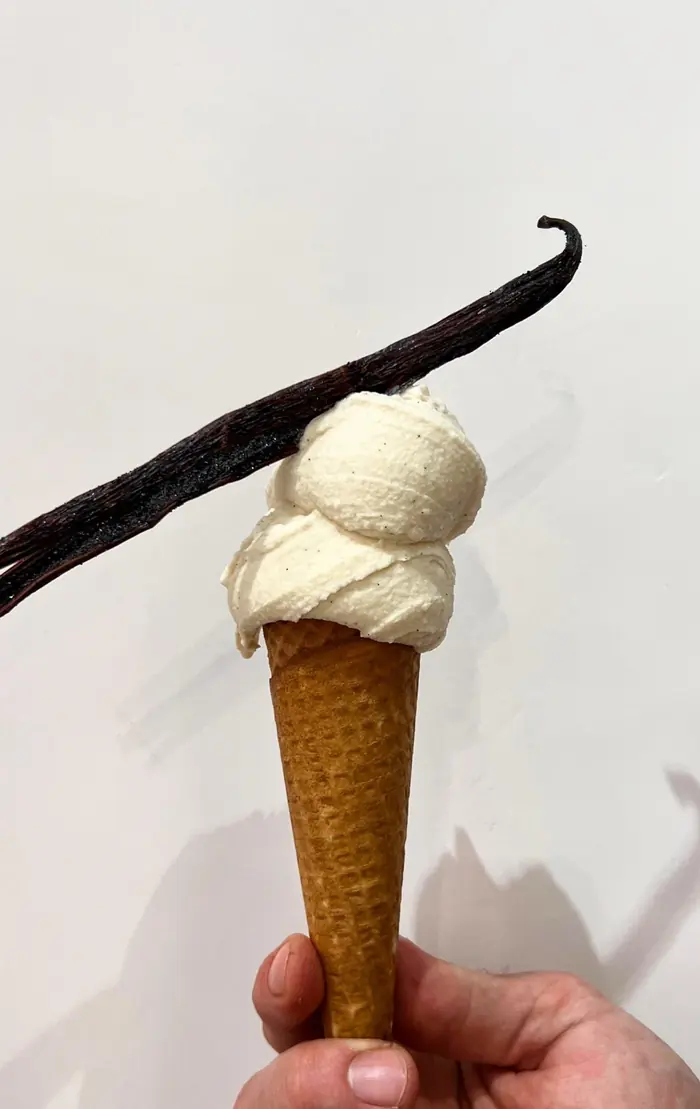
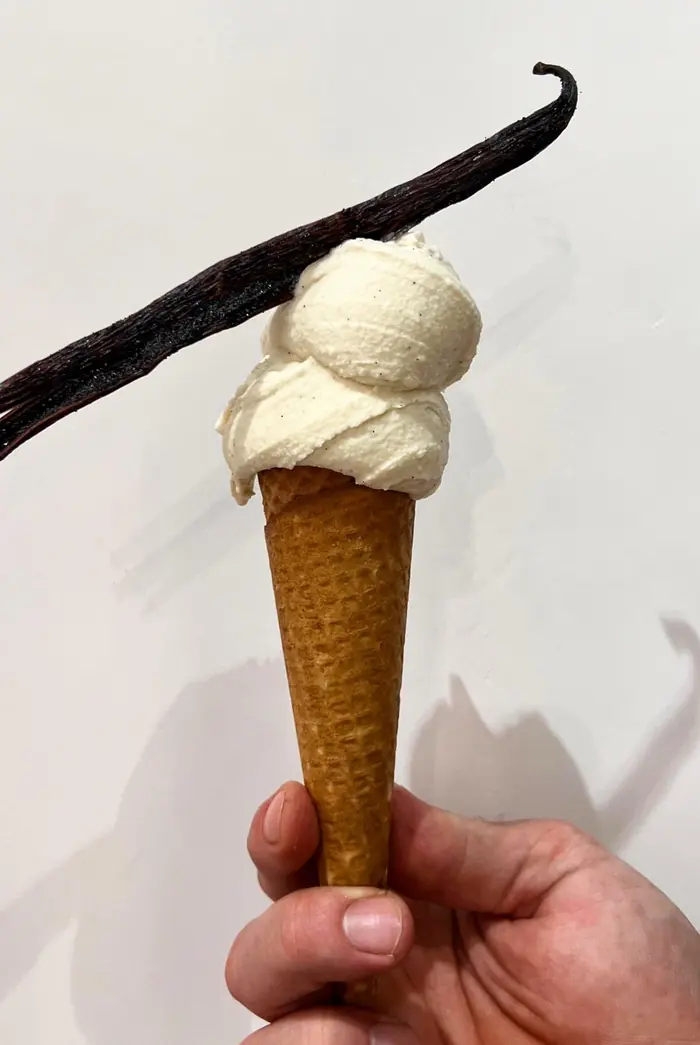
fix: show the whole cone, hand and vanilla pod in the hero; drop the Instagram section

diff --git a/sablegelato/index.html b/sablegelato/index.html
@@ -87,8 +87,9 @@ body.menu .sheet{clip-path:circle(150% at calc(100% - 38px) 62px); visibility:vi
 .dark .btn.ghost:hover{background:var(--cream); color:var(--ink)}
 
 .arch{position:relative; aspect-ratio:4/5.2; border-radius:999px 999px 6px 6px; overflow:hidden; background:var(--paper-2); isolation:isolate}
-.arch img{width:100%; height:118%; object-fit:cover; object-position:50% 35%; will-change:transform}
+.arch img{width:100%; height:118%; object-fit:cover; object-position:50% 50%; will-change:transform}
 .hero .arch img{animation:settle 2.4s cubic-bezier(.2,.7,.2,1) both}
+.hero-img img{height:100%; object-position:50% 0; transform-origin:50% 30%}
 @keyframes settle{from{transform:scale(1.12)} to{transform:scale(1)}}
 .hero-art{position:relative; max-width:min(500px, calc((100vh - 170px) * .76)); justify-self:end; width:100%}
 .seal{text-decoration:none; position:absolute; left:-46px; bottom:12%; width:132px; height:132px; border-radius:50%; background:var(--ink); color:var(--cream); display:grid; place-items:center; box-shadow:0 18px 40px rgba(0,0,0,.18)}
@@ -262,27 +263,6 @@ details.on-dark{border-color:rgba(245,240,230,.2); margin-top:8px}
 
 .visit .wrap.map-wrap{display:block; margin-top:clamp(48px,7vw,90px)}
 .map{display:block; width:100%; height:clamp(300px,40vw,440px); border:0; border-radius:6px}
-/* instagram */
-.insta{padding-top:0}
-.insta-head{display:grid; grid-template-columns:auto 1fr auto; align-items:center; gap:clamp(16px,3vw,32px); margin-bottom:clamp(28px,4vw,44px)}
-.insta h2{font-size:clamp(2.4rem,6.5vw,5rem); text-transform:none; letter-spacing:0}
-.insta h2 a{text-decoration:none; background:linear-gradient(90deg,#f58529,#dd2a7b 45%,#8134af 75%,#515bd4); -webkit-background-clip:text; background-clip:text; color:transparent}
-.ig-badge{width:clamp(64px,8vw,92px); aspect-ratio:1; border-radius:50%; padding:3px; background:conic-gradient(from 210deg,#feda75,#fa7e1e,#d62976,#962fbf,#4f5bd5,#feda75); display:block; animation:spin 9s linear infinite}
-.ig-badge span{width:100%; height:100%; border-radius:50%; background:var(--paper); display:grid; place-items:center; color:var(--ink); animation:spin 9s linear infinite reverse}
-.ig-badge svg{width:42%; height:42%}
-.ig-btn{border:0; color:#fff; background:linear-gradient(90deg,#f58529,#dd2a7b 50%,#8134af); gap:10px; background-size:200% 100%; transition:background-position .6s, transform .35s}
-.ig-btn:hover{background-position:100% 0}
-.ig-btn svg{width:16px; height:16px}
-.ig-grid{display:grid; grid-template-columns:repeat(4,1fr); gap:6px}
-.ig-tile{position:relative; display:block; aspect-ratio:1; overflow:hidden; border-radius:4px; background:var(--paper-2)}
-.ig-tile img{width:100%; height:100%; object-fit:cover; transition:transform 1s cubic-bezier(.2,.7,.2,1)}
-.ig-tile span{position:absolute; inset:0; display:grid; place-items:center; color:#fff; background:linear-gradient(135deg,rgba(245,133,41,.55),rgba(221,42,123,.55),rgba(129,52,175,.55)); opacity:0; transition:opacity .45s}
-.ig-tile span svg{width:34px; height:34px; transform:scale(.7); transition:transform .45s}
-.ig-tile:hover img{transform:scale(1.08)}
-.ig-tile:hover span{opacity:1}
-.ig-tile:hover span svg{transform:none}
-@media (max-width:760px){.insta-head{grid-template-columns:auto 1fr} .ig-btn{grid-column:1/-1; justify-content:center} .ig-grid{grid-template-columns:repeat(2,1fr)}}
-
 /* film */
 .film{padding:0 0 clamp(72px,10vw,140px)}
 .aff + .film{margin-top:-1px}
@@ -356,13 +336,13 @@ footer a{text-decoration:none; border-bottom:1px solid rgba(245,240,230,.3)}
   <div class="wrap">
     <a class="brand" href="#top" aria-label="Sablé Gelato, back to top"><img src="img/logo.png" alt="Sablé - Gelato &amp; Cioccolato - Laboratorio Artigianale" width="520" height="354"></a>
     <nav class="nav" aria-label="Sections">
-      <a href="#about">About me</a><a href="#gelato">My gelato</a><a href="#lab">Lab</a><a href="#chocolate">Chocolate</a><a href="#affogato">Affogato</a><a href="#awards">Awards</a><a href="#instagram">Instagram</a><a href="#visit">Visit</a>
+      <a href="#about">About me</a><a href="#gelato">My gelato</a><a href="#lab">Lab</a><a href="#chocolate">Chocolate</a><a href="#affogato">Affogato</a><a href="#awards">Awards</a><a href="#visit">Visit</a>
     </nav>
     <button class="burger" id="burger" aria-label="Open menu" aria-expanded="false"><span></span><span></span></button>
   </div>
 </header>
 <nav class="sheet" id="sheet" aria-label="Menu">
-  <a href="#about">About me</a><a href="#gelato">My gelato</a><a href="#lab">Lab</a><a href="#chocolate">Chocolate</a><a href="#affogato">Affogato</a><a href="#awards">Awards</a><a href="#instagram">Instagram</a><a href="#visit">Visit</a>
+  <a href="#about">About me</a><a href="#gelato">My gelato</a><a href="#lab">Lab</a><a href="#chocolate">Chocolate</a><a href="#affogato">Affogato</a><a href="#awards">Awards</a><a href="#visit">Visit</a>
   <span class="label muted">Via dei Mille 3a · Bologna</span>
 </nav>
 
@@ -385,7 +365,7 @@ footer a{text-decoration:none; border-bottom:1px solid rgba(245,240,230,.3)}
       </div>
     </div>
     <div class="hero-art" data-r style="--d:.2s">
-      <div class="arch"><img data-px="0.10" src="img/cone-700.webp" srcset="img/cone-700.webp 700w, img/cone-1400.webp 1270w" sizes="(max-width:899px) 90vw, 40vw" alt="A cone of Sablé gelato with a vanilla pod" width="700" height="1108" fetchpriority="high"></div>
+      <div class="arch hero-img"><img src="img/cone-700.webp" srcset="img/cone-700.webp 700w, img/cone-1400.webp 1270w" sizes="(max-width:899px) 90vw, 40vw" alt="A cone of Sablé gelato with a vanilla pod" width="700" height="1045" fetchpriority="high"></div>
       <a class="seal" href="https://www.gamberorosso.it/ristoranti/scheda-negozio/sable-gelato/" target="_blank" rel="noopener" aria-label="Due Coni Gambero Rosso 2023, 2024, 2025, 2026">
         <svg class="ring" viewBox="0 0 132 132" aria-hidden="true"><defs><path id="circ" d="M66,66 m-52,0 a52,52 0 1,1 104,0 a52,52 0 1,1 -104,0"/></defs><text><textPath href="#circ" textLength="324" lengthAdjust="spacingAndGlyphs">Gambero Rosso · 2023 · 2024 · 2025 · 2026 ·</textPath></text></svg>
         <div class="c">Due<br>Coni</div>
@@ -704,29 +684,6 @@ footer a{text-decoration:none; border-bottom:1px solid rgba(245,240,230,.3)}
         <li><a href="https://www.tastebologna.net/blog/best-gelato-bologna" target="_blank" rel="noopener"><img src="img/logos/taste-bologna.webp" alt="Taste Bologna" loading="lazy" width="277" height="227"></a></li>
         <li><a href="https://www.gazzettadelgusto.it/dove-mangiare/sable-bologna-gelato-alessandro-cesari/" target="_blank" rel="noopener"><img src="img/logos/gazzetta-del-gusto.webp" alt="La Gazzetta del Gusto" loading="lazy" width="600" height="288"></a></li>
       </ul>
-    </div>
-  </div>
-</section>
-
-<section class="sec insta" id="instagram">
-  <div class="wrap">
-    <div class="insta-head" data-r>
-      <a class="ig-badge" href="https://www.instagram.com/sable_gelato/" target="_blank" rel="noopener" aria-label="Sablé Gelato on Instagram"><span><svg viewBox="0 0 24 24" fill="none" stroke="currentColor" stroke-width="1.6" aria-hidden="true"><rect x="3" y="3" width="18" height="18" rx="5"/><circle cx="12" cy="12" r="4.2"/><circle cx="17.4" cy="6.6" r="1" fill="currentColor" stroke="none"/></svg></span></a>
-      <div>
-        <div class="label muted">Instagram</div>
-        <h2><a href="https://www.instagram.com/sable_gelato/" target="_blank" rel="noopener">@sable_gelato</a></h2>
-      </div>
-      <a class="btn ig-btn" href="https://www.instagram.com/sable_gelato/" target="_blank" rel="noopener"><svg viewBox="0 0 24 24" fill="none" stroke="currentColor" stroke-width="1.6" aria-hidden="true"><rect x="3" y="3" width="18" height="18" rx="5"/><circle cx="12" cy="12" r="4.2"/><circle cx="17.4" cy="6.6" r="1" fill="currentColor" stroke="none"/></svg>Follow on Instagram</a>
-    </div>
-    <div class="ig-grid" data-r>
-      <a class="ig-tile" href="https://www.instagram.com/sable_gelato/" target="_blank" rel="noopener" aria-label="Sablé gelato with flowers, on Instagram"><img src="img/f1-700.webp" alt="" loading="lazy" width="700" height="875"><span><svg viewBox="0 0 24 24" fill="none" stroke="currentColor" stroke-width="1.6" aria-hidden="true"><rect x="3" y="3" width="18" height="18" rx="5"/><circle cx="12" cy="12" r="4.2"/><circle cx="17.4" cy="6.6" r="1" fill="currentColor" stroke="none"/></svg></span></a>
-      <a class="ig-tile" href="https://www.instagram.com/sable_gelato/" target="_blank" rel="noopener" aria-label="In the laboratory, on Instagram"><img src="img/stir-700.webp" alt="" loading="lazy" width="700" height="875"><span><svg viewBox="0 0 24 24" fill="none" stroke="currentColor" stroke-width="1.6" aria-hidden="true"><rect x="3" y="3" width="18" height="18" rx="5"/><circle cx="12" cy="12" r="4.2"/><circle cx="17.4" cy="6.6" r="1" fill="currentColor" stroke="none"/></svg></span></a>
-      <a class="ig-tile" href="https://www.instagram.com/sable_gelato/" target="_blank" rel="noopener" aria-label="Gelato with pumpkin, on Instagram"><img src="img/f6-700.webp" alt="" loading="lazy" width="700" height="875"><span><svg viewBox="0 0 24 24" fill="none" stroke="currentColor" stroke-width="1.6" aria-hidden="true"><rect x="3" y="3" width="18" height="18" rx="5"/><circle cx="12" cy="12" r="4.2"/><circle cx="17.4" cy="6.6" r="1" fill="currentColor" stroke="none"/></svg></span></a>
-      <a class="ig-tile" href="https://www.instagram.com/sable_gelato/" target="_blank" rel="noopener" aria-label="Espresso for the affogato, on Instagram"><img src="img/espresso-700.webp" alt="" loading="lazy" width="700" height="875"><span><svg viewBox="0 0 24 24" fill="none" stroke="currentColor" stroke-width="1.6" aria-hidden="true"><rect x="3" y="3" width="18" height="18" rx="5"/><circle cx="12" cy="12" r="4.2"/><circle cx="17.4" cy="6.6" r="1" fill="currentColor" stroke="none"/></svg></span></a>
-      <a class="ig-tile" href="https://www.instagram.com/sable_gelato/" target="_blank" rel="noopener" aria-label="Gelato with prickly pears, on Instagram"><img src="img/f3-700.webp" alt="" loading="lazy" width="700" height="875"><span><svg viewBox="0 0 24 24" fill="none" stroke="currentColor" stroke-width="1.6" aria-hidden="true"><rect x="3" y="3" width="18" height="18" rx="5"/><circle cx="12" cy="12" r="4.2"/><circle cx="17.4" cy="6.6" r="1" fill="currentColor" stroke="none"/></svg></span></a>
-      <a class="ig-tile" href="https://www.instagram.com/sable_gelato/" target="_blank" rel="noopener" aria-label="Cocoa beans, on Instagram"><img src="img/beans-700.webp" alt="" loading="lazy" width="700" height="875"><span><svg viewBox="0 0 24 24" fill="none" stroke="currentColor" stroke-width="1.6" aria-hidden="true"><rect x="3" y="3" width="18" height="18" rx="5"/><circle cx="12" cy="12" r="4.2"/><circle cx="17.4" cy="6.6" r="1" fill="currentColor" stroke="none"/></svg></span></a>
-      <a class="ig-tile" href="https://www.instagram.com/sable_gelato/" target="_blank" rel="noopener" aria-label="Gelato with herbs, on Instagram"><img src="img/f7-700.webp" alt="" loading="lazy" width="700" height="875"><span><svg viewBox="0 0 24 24" fill="none" stroke="currentColor" stroke-width="1.6" aria-hidden="true"><rect x="3" y="3" width="18" height="18" rx="5"/><circle cx="12" cy="12" r="4.2"/><circle cx="17.4" cy="6.6" r="1" fill="currentColor" stroke="none"/></svg></span></a>
-      <a class="ig-tile" href="https://www.instagram.com/sable_gelato/" target="_blank" rel="noopener" aria-label="Raw honeycomb, on Instagram"><img src="img/honey-700.webp" alt="" loading="lazy" width="700" height="875"><span><svg viewBox="0 0 24 24" fill="none" stroke="currentColor" stroke-width="1.6" aria-hidden="true"><rect x="3" y="3" width="18" height="18" rx="5"/><circle cx="12" cy="12" r="4.2"/><circle cx="17.4" cy="6.6" r="1" fill="currentColor" stroke="none"/></svg></span></a>
     </div>
   </div>
 </section>
